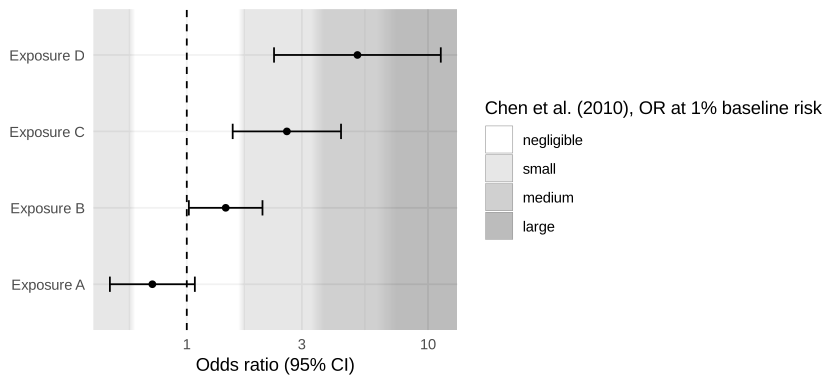
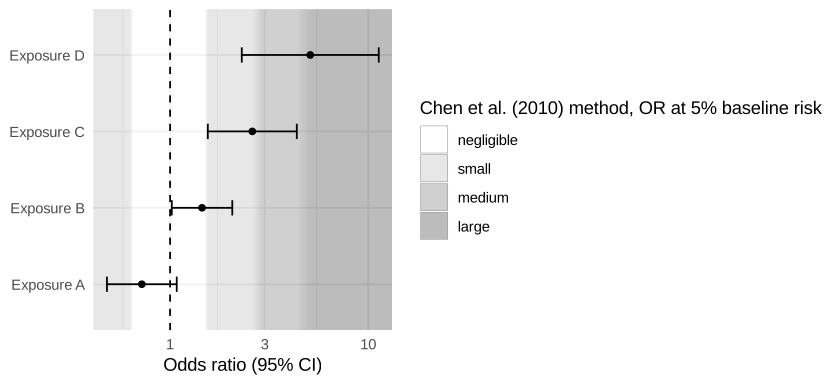
Document SD choice, Chen OR method and zone renaming; set author
- Vignette and README: when the model's SD is used and when it is not,
  TukeyHSD/aov/emmeans entry points, chen_or_thresholds() and the
  asymmetry of Chen's zones, zone_labels, visible-only legend.
- DESIGN.md: resolved decisions recorded; range-MCID multiples left open.
- NEWS entries; author Hercules Freitas.

Claude-Session: https://claude.ai/code/session_019DBWbup7VMAWpqzRbUo3AE

diff --git a/DESIGN.md b/DESIGN.md
@@ -55,39 +55,56 @@ implemented and documented.
   benefit. A length-2 value is an uncertain threshold, drawn as a fade
   across the range. `beyond = "multiples"` deepens the colour at 2x and 3x
   the MCID (the midpoint, for ranges), capped at 3x.
-* **MCID default palette.** The specification listed `palette = "grey"` in
-  the `geom_mcid_zones()` signature but described the default as a muted
-  colourblind-safe diverging pair. The default is the diverging palette
-  (`"diverging"`, blue/orange with a neutral centre); `"grey"` is available
-  and documented with the recommendation to use `labels = TRUE`.
-  **Open question:** confirm which default is wanted.
+* **MCID default palette:** the muted blue/orange diverging palette
+  (`"diverging"`), confirmed by the author; `"grey"` remains available with
+  `labels = TRUE` recommended.
 * **Zone labels** (`labels = TRUE`) are dropped at draw time when the text
   does not fit inside its zone, rather than overlapping.
-* **`plot_contrasts()` and the SD.** `TukeyHSD` objects and data frames do
-  not carry their model, so the SD comes from an explicit `model =`
-  argument; `emmGrid` objects from `emmeans()` carry `sigma`, but grids from
-  `contrast()`/`pairs()` do not, so they also need `model =` (the emmeans
-  grid or the fit). The function never refits a model from a stored call.
+* **`plot_contrasts()` and the SD.** Standardised thresholds over raw
+  differences need an SD. The model's residual SD is used automatically
+  only for a one-way, fixed-effects, unweighted linear model, where it is
+  the pooled within-group SD (the conventional denominator of d, under the
+  same equal-variance assumption as the ANOVA and Tukey intervals). With
+  more terms the residual SD gives a partial d, so the function stops and
+  asks for `sd` (`sd = pooled_sd(model)` accepts the residual SD
+  explicitly). The model can come from an `aov` fit, an emmeans grid of
+  means (which carries `sigma`), or a `TukeyHSD` object: its stored call is
+  re-evaluated in the calling environment and the refit is accepted only if
+  it reproduces the Tukey contrasts exactly. emmeans contrast grids drop
+  `sigma`, so they need `model =` or `sd`.
+* **Chen et al. odds ratios.** `chen_or_thresholds(baseline_risk)`
+  implements p1 = Phi(Phi^-1(p0) + d) and OR = odds(p1) / odds(p0); it
+  reproduces the published 1% and 5% rows. Under this model the protective
+  side is not the reciprocal of the harmful side (except at p0 = 0.5), so
+  the boundaries below 1 are computed from negative d (`cuts_lower`). The
+  published values cover only OR > 1; the lower side in
+  `es_benchmarks("chen_or")` (1.74, 4.28, 11.40, rounded) is computed, not
+  published, and the source text says so.
+* **Legend shows only visible zones.** The stat drops zones that lie
+  entirely outside the axis range trained so far (including the scale's
+  expansion). Coordinate limits (`coord_cartesian(xlim)`) and ranges
+  created later by other layers' stats are not known at that stage, so in
+  those cases the legend can list a zone that is clipped away.
+* **Renaming zones:** `zone_labels` on both layers, either a full unnamed
+  vector/list or a named partial mapping.
 * Extra arguments beyond the specification: `label_size`, `label_colour`,
-  `n_slices`, `title`, `show.legend` on both layers; `mcid` (symmetric
+  `n_slices`, `zone_labels`, `title`, `show.legend` on both layers;
+  `cuts_lower` on `es_thresholds()`; `chen_or_thresholds()`; `mcid` (symmetric
   shorthand) on `mcid_thresholds()`; `direction` on `mcid_distribution()`;
-  `which`, `model`, `null`, `xlab` on `plot_contrasts()` methods.
+  `which`, `model`, `null`, `xlab`, `conf.level` on `plot_contrasts()`
+  methods, and an `aov` method.
 
 ## Open questions
 
-* Is the residual SD the right default for converting d over ANOVA
-  contrasts, or should `plot_contrasts()` refuse to guess and require `sd`?
-  Currently it uses `pooled_sd(model)` only when `model` is passed, and
-  says so.
-* Multiples for an uncertain (range) MCID use the midpoint. Alternatives:
-  fade the multiples too, or omit multiples for ranges.
-* Should zones outside the visible panel be dropped from the legend? They
-  are kept so the legend always shows the full scheme in a fixed order.
-* `"chen_or"` is tied to a 1% baseline risk. A function that returns the
-  Chen et al. equivalents for other baseline risks would be more honest,
-  but needs their method implemented and checked.
-* Labels for the innermost zone ("negligible") are this package's
-  convention, not the sources'. Some users may prefer "below small".
+* **Multiples for an uncertain (range) MCID.** Currently the 2x and 3x
+  boundaries sit at multiples of the range midpoint, with hard edges.
+  Alternatives under discussion: fade each multiple across the multiplied
+  range (2x and 3x the range), which overlaps for wide ranges; or omit
+  multiples when the MCID is a range.
+* Some users may prefer that `chen_or_thresholds()` also accept the
+  baseline risk of the exposed group (i.e. odds ratios expressed the other
+  way round); currently `baseline_risk` must refer to the reference
+  (denominator) group.
 
 ## Unfinished / known limitations
 
@@ -111,4 +128,4 @@ implemented and documented.
   viewers may show hairlines between adjacent slices at extreme zoom.
 * DOIs are given only where they were verified against a bibliographic
   record (Funder & Ozer 2019; Gignac & Szodorai 2016; Jaeschke et al.
-  1989). Other references are cited without DOIs.
+  1989). The author is adding the remaining DOIs.

diff --git a/README.md b/README.md
@@ -37,8 +37,9 @@ pak::pak("drhrf/effectzones")
 
 Standardised thresholds (here Cohen’s d, used only as an illustration;
 see the vignette on choosing a set) are converted to the raw scale of
-the contrasts with the model’s pooled SD. `plot_contrasts()` says which
-SD it used.
+the contrasts. For a one-way model `plot_contrasts()` uses the model’s
+pooled within-group SD and says so; for anything more complex it asks
+you to choose the SD.
 
 ``` r
 library(effectzones)
@@ -46,11 +47,11 @@ library(ggplot2)
 
 fit <- aov(breaks ~ tension, data = warpbreaks)
 plot_contrasts(
-  TukeyHSD(fit),
-  zones = geom_es_zones(es_benchmarks("cohen_d"), labels = TRUE),
-  model = fit
+  fit,
+  zones = geom_es_zones(es_benchmarks("cohen_d"), labels = TRUE)
 )
-#> ℹ Converting d thresholds with the model's pooled (residual) SD = 11.9.
+#> ℹ Converting d thresholds with the residual (pooled within-group) SD of the
+#>   one-way model: 11.9.
 #>   Set `sd` in the zones layer to use a different SD.
 ```
 
@@ -69,16 +70,17 @@ mcid <- mcid_thresholds(
   direction = "lower_better",
   source = "Hypothetical anchors"
 )
-plot_contrasts(TukeyHSD(fit), zones = geom_mcid_zones(mcid, labels = TRUE))
+plot_contrasts(fit, zones = geom_mcid_zones(mcid, labels = TRUE))
 ```
 
 <img src="man/figures/README-tukey-mcid-1.png" width="100%" />
 
 ## An odds-ratio forest plot on a log axis
 
-Ratio zones are symmetric on the log scale around 1. The Chen, Cohen &
-Chen (2010) odds ratios correspond to d = 0.2 / 0.5 / 0.8 only at a 1%
-baseline risk.
+The Chen, Cohen & Chen (2010) odds ratios correspond to d = 0.2 / 0.5 /
+0.8 at a 1% baseline risk; `chen_or_thresholds()` computes them for any
+baseline risk. Under their method the zones below 1 are not mirror
+images of those above 1, and are drawn accordingly.
 
 ``` r
 or <- data.frame(
@@ -88,7 +90,7 @@ or <- data.frame(
   upper = c(1.08, 2.06, 4.36, 11.3)
 )
 ggplot(or, aes(estimate, term)) +
-  geom_es_zones(es_benchmarks("chen_or"), scale = "log", null = 1) +
+  geom_es_zones(chen_or_thresholds(0.05), scale = "log", null = 1) +
   geom_vline(xintercept = 1, linetype = 2) +
   geom_errorbar(aes(xmin = lower, xmax = upper), width = 0.2) +
   geom_point() +
@@ -101,7 +103,9 @@ ggplot(or, aes(estimate, term)) +
 
 Add the zones layer **before** points and error bars so they are drawn
 on top. Zones do not change the axis limits unless you set
-`expand = TRUE`.
+`expand = TRUE`, and the legend lists only the zones that appear in the
+plot. Rename zones with `zone_labels`,
+e.g. `zone_labels = c(negligible = "below small")`.
 
 ## What effectzones deliberately does not do
 

diff --git a/NEWS.md b/NEWS.md
@@ -9,3 +9,14 @@
   `mcid_thresholds()`, `mcid_distribution()`; conversion with
   `to_plot_scale()` and `pooled_sd()`.
 * `plot_contrasts()` for `TukeyHSD`, emmeans contrasts and data frames.
+* `chen_or_thresholds()` computes the Chen, Cohen & Chen (2010) odds-ratio
+  equivalents of d for any baseline risk. Under their method protective
+  and harmful zones are not mirror images, so the zones below 1 are computed
+  from negative d (also in `es_benchmarks("chen_or")`).
+* `es_thresholds()` gains `cuts_lower` for asymmetric effect-size zones.
+* Both layers gain `zone_labels` to rename zones (all at once or by name).
+* The legend lists only the zones that appear in the plot.
+* `plot_contrasts()` accepts `aov` fits and emmeans grids of means directly,
+  and recovers the model behind a `TukeyHSD` object (verified against the
+  contrasts). The model's residual SD is used automatically only for one-way
+  models; otherwise `sd` must be given.

diff --git a/LICENSE.md b/LICENSE.md
@@ -1,6 +1,6 @@
 # MIT License
 
-Copyright (c) 2026 drhrf
+Copyright (c) 2026 Hercules Freitas
 
 Permission is hereby granted, free of charge, to any person obtaining a copy
 of this software and associated documentation files (the "Software"), to deal
